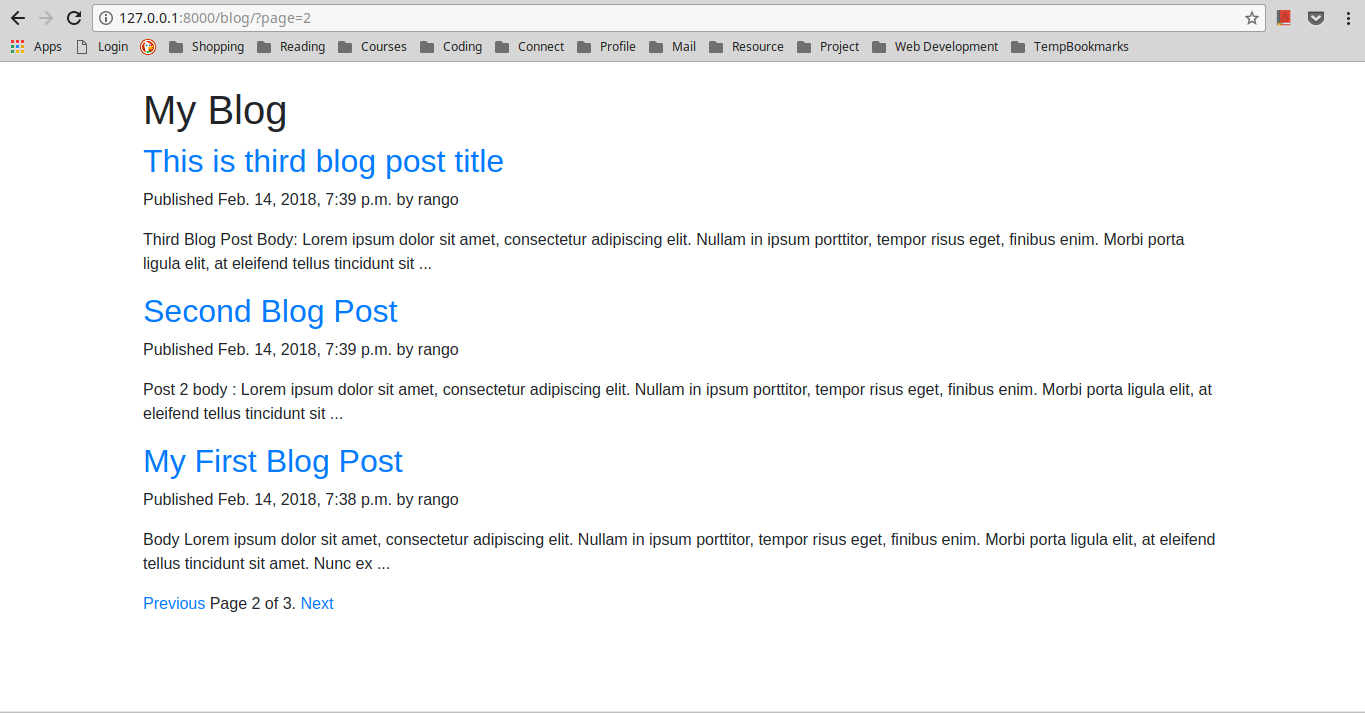
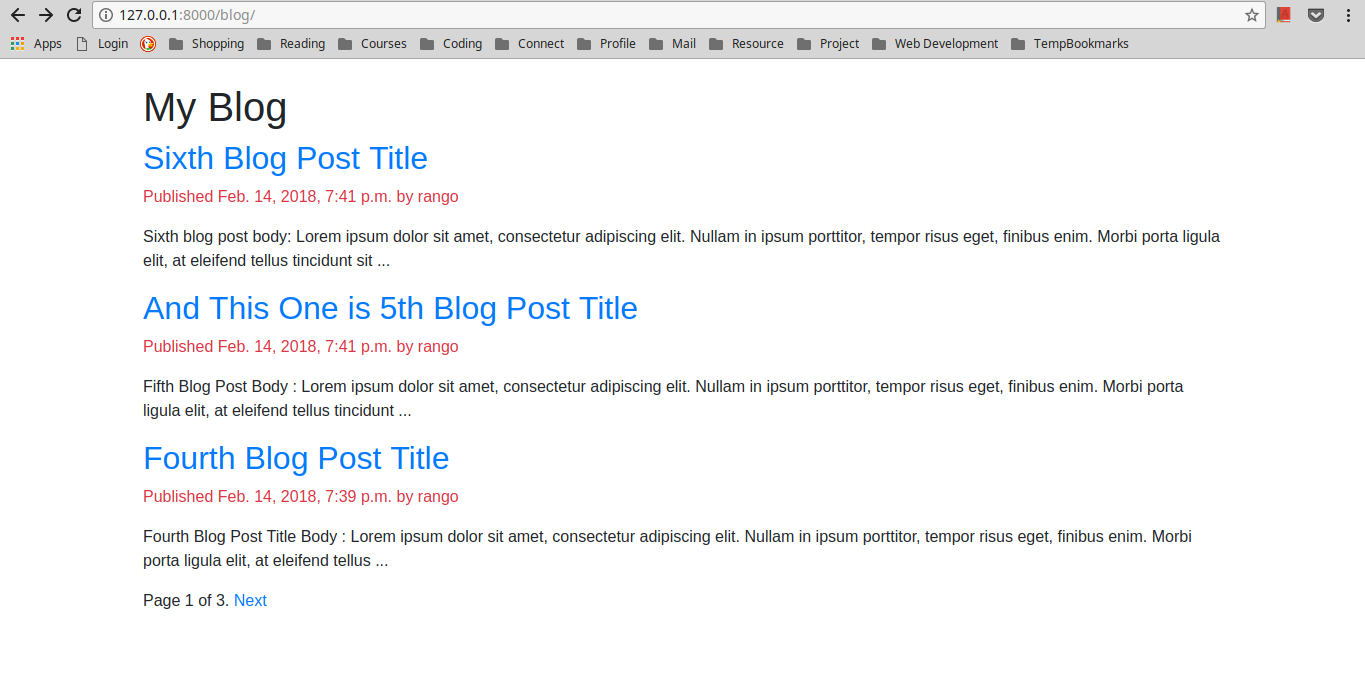
Add comment section for the post

Changed region(s): [[0.0923, 0.1228, 0.8923, 0.8904], [0.0, 0.0, 0.9846, 0.0921], [0.0, 0.9825, 1.0, 1.0]]

diff --git a/BlogApp/mysite/blog/templates/blog/post/detail.html b/BlogApp/mysite/blog/templates/blog/post/detail.html
@@ -3,7 +3,7 @@
 {% block title %} {{post.title}} {% endblock %}
 
 {% block content %}
-	<h1>{{ post.title }}</h1>
+	<h1 class="text-danger">{{ post.title }}</h1>
 	<p class="date">
 		Published {{post.publish }} by {{ post.author }}
 	</p>
@@ -12,4 +12,33 @@
 	<p>
 		<a href="{% url "blog:post_share" post.id }" >Share this post</a>
 	</p>
+
+{% with comments.count as total_comments %}
+	<h2>
+		{{ total_comments }} comment{{ total_comments|pluralize }}
+	</h2>
+{% endwith %}
+
+{% for comment in comments %}
+	<div class="comment font-italic">
+		<p class="info">
+			Comment {{ forloop.counter }} by {{ comment.name }}
+			{{ comment.created }}
+		</p>
+		{{ comment.body|linebreaks }}
+	</div>
+	{% empty %}
+	<p> There are no comments yet</p>
+{% endfor %}
+
+{% if new_comment %}
+	<h2>Your comment has been added. </h2>
+{% else %}
+	<h2>Add a new comment</h2>
+	<form action="." method="post">
+		{{ comment_form.as_p}}
+		{% csrf_token %}
+		<p><input type="submit" value="Add comment"></p>
+	</form>
+{% endif %}
 {% endblock %}

diff --git a/BlogApp/mysite/blog/templates/blog/post/list.html b/BlogApp/mysite/blog/templates/blog/post/list.html
@@ -12,7 +12,7 @@
 		 		{{post.title}}
 		 	</a>
 		 </h2>
-		 <p class="date">
+		 <p class="date text-danger">
 		 	Published {{ post.publish}} by {{ post.author }}
 		 </p>
 		 {{ post.body|truncatewords:30|linebreaks }}

diff --git a/BlogApp/mysite/blog/views.py b/BlogApp/mysite/blog/views.py
@@ -5,8 +5,8 @@ from django.core.paginator import Paginator, EmptyPage, PageNotAnInteger
 from django.views.generic import ListView
 from django.core.mail import send_mail
 
-from .forms import EmailPostForm
-from .models import Post
+from .forms import EmailPostForm, CommentForm
+from .models import Post, Comment
 # Create your views here.
 
 
@@ -38,7 +38,24 @@ def post_detail(request,year,month, day, post):
 		publish__month=month,
 		publish__day = day
 		)
-	return render(request, 'blog/post/detail.html', {'post':post})
+
+	# List of Active comments for this post
+	comments = post.comments.filter(active=True)
+
+	if request.method == 'POST':
+		# A comment was posted
+		comment_form = CommentForm(data=request.POST)
+		if comment_form.is_valid():
+			# Create Comment object but dont' save to database yet. 
+			new_comment = comment_form.save(commit=False)
+			# Assign the current post to the comment
+			new_comment.post = post
+			# Save the comment to the database
+			new_comment.save()
+	else:
+		comment_form = CommentForm()
+
+	return render(request, 'blog/post/detail.html', {'post':post, 'comments': comments, 'comment_form':comment_form,})
 
 def post_share(request, post_id):
 	# Retrieve post by id
@@ -60,4 +77,7 @@ def post_share(request, post_id):
 	else:
 		form = EmailPostForm()
 	return render(request, 'blog/post/share.html', {'post':post, 'form': form, 'sent': sent})
+
+
+
 

diff --git a/BlogApp/mysite/blog/migrations/0003_comment.py b/BlogApp/mysite/blog/migrations/0003_comment.py
@@ -1,0 +1,32 @@
+# -*- coding: utf-8 -*-
+# Generated by Django 1.11.7 on 2018-02-15 10:43
+from __future__ import unicode_literals
+
+from django.db import migrations, models
+import django.db.models.deletion
+
+
+class Migration(migrations.Migration):
+
+    dependencies = [
+        ('blog', '0002_auto_20180214_0813'),
+    ]
+
+    operations = [
+        migrations.CreateModel(
+            name='Comment',
+            fields=[
+                ('id', models.AutoField(auto_created=True, primary_key=True, serialize=False, verbose_name='ID')),
+                ('name', models.CharField(max_length=80)),
+                ('email', models.EmailField(max_length=254)),
+                ('body', models.TextField()),
+                ('created', models.DateTimeField(auto_now_add=True)),
+                ('updated', models.DateTimeField(auto_now=True)),
+                ('active', models.BooleanField(default=True)),
+                ('post', models.ForeignKey(on_delete=django.db.models.deletion.CASCADE, related_name='comments', to='blog.Post')),
+            ],
+            options={
+                'ordering': ('created',),
+            },
+        ),
+    ]

diff --git a/BlogApp/mysite/blog/admin.py b/BlogApp/mysite/blog/admin.py
@@ -2,7 +2,7 @@
 from __future__ import unicode_literals
 
 from django.contrib import admin
-from .models import Post
+from .models import Post, Comment
 # Register your models here.
 class PostAdmin(admin.ModelAdmin):
 	list_display = ('title', 'slug', 'author', 'publish', 'status')
@@ -13,3 +13,10 @@ class PostAdmin(admin.ModelAdmin):
 	date_hierarchy = 'publish'
 	ordering = ['status','publish']
 admin.site.register(Post, PostAdmin)
+
+class CommentAdmin(admin.ModelAdmin):
+	list_display = ('name', 'email', 'post', 'created', 'active')
+	list_filter = ('active', 'created', 'updated')
+	search_fields = ('name', 'email', 'body')
+
+admin.site.register(Comment, CommentAdmin)

diff --git a/BlogApp/mysite/blog/models.py b/BlogApp/mysite/blog/models.py
@@ -42,3 +42,17 @@ class Post(models.Model):
 			self.publish.strftime('%d'),
 			self.slug])
 
+class Comment(models.Model):
+	post = models.ForeignKey(Post, related_name = 'comments')
+	name = models.CharField(max_length=80)
+	email = models.EmailField()
+	body = models.TextField()
+	created = models.DateTimeField(auto_now_add = True)
+	updated = models.DateTimeField(auto_now= True)
+	active = models.BooleanField(default=True)
+
+	class Meta: 
+		ordering = ('created',)
+
+	def __str__(self):
+		return 'Comment by {} on {}'.format(self.name, self.post)

diff --git a/BlogApp/mysite/blog/forms.py b/BlogApp/mysite/blog/forms.py
@@ -1,4 +1,5 @@
 from django import forms
+from .models import Comment
 
 class EmailPostForm(forms.Form):
 	name = forms.CharField(max_length=25)
@@ -6,3 +7,8 @@ class EmailPostForm(forms.Form):
 	to = forms.EmailField()
 	comments = forms.CharField(required = False,
 								widget = forms.Textarea)
+
+class CommentForm(forms.ModelForm):
+	class Meta:
+		model = Comment
+		fields = ('name', 'email', 'body')

diff --git a/README.md b/README.md
@@ -3,9 +3,9 @@
 I'll edit this README every day when I'll finish working for that day.
 -------------------
 
-| Day      |         What I learned             |   Issues and their current status    |   Link (if available)       |
-|----------|------------------------------------|------------------------------------|-----------------------------|
-| Day001   | How to customize the way models are displayed in admin panel. Creating model Managers. How to create canonical URLs for models. How to add django's build in pagination. How to create class based view. Creating form | Form for sending email is not working (Status: Not fixed) | N/A |
+| Day      | Project Name |         What I learned             |   Issues and their current status    |   Link (if available)       |
+|----------|--------------|---------------------|------------------------------------|-------------------------------|
+| Day001   | Blog App     | How to customize the way models are displayed in admin panel. Creating model Managers. How to create canonical URLs for models. How to add django's build in pagination. How to create class based view. Creating form | Form for sending email is not working (Status: Not fixed) | N/A |
 ----------
 ### Screenshots
 ----------
